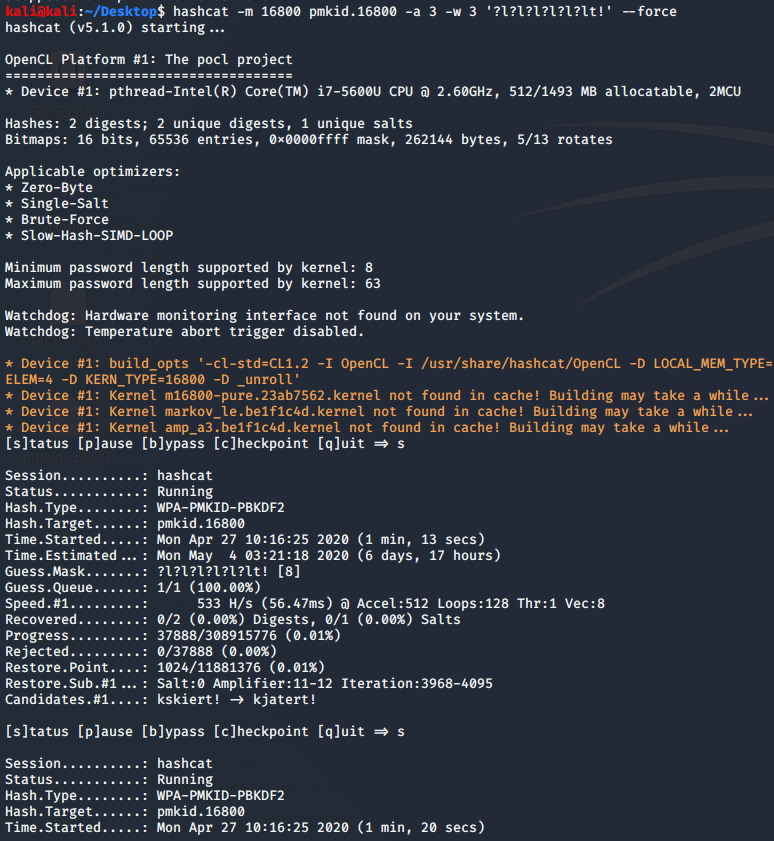
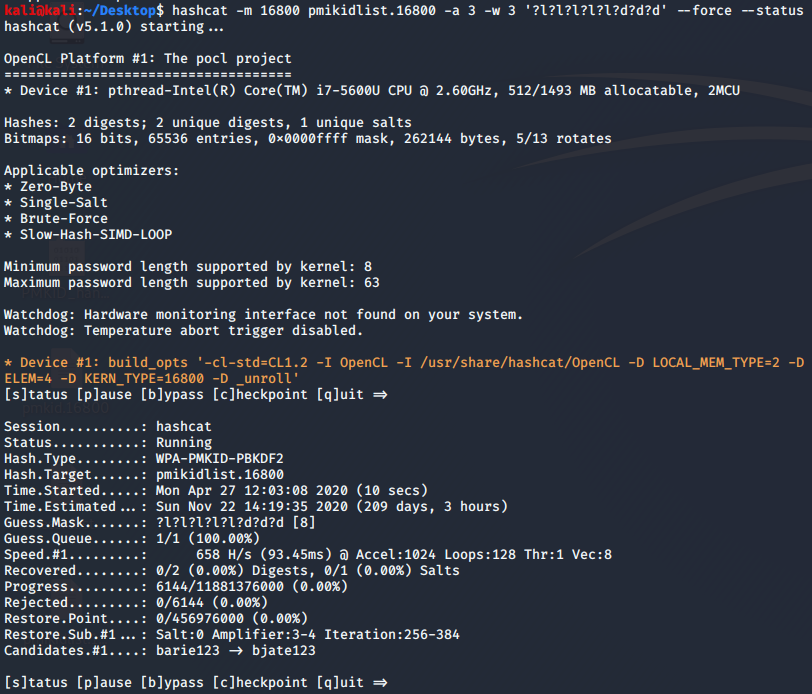
Added screenshots and comments for step 3

Changed region(s): [[0.0, 0.0, 1.0, 0.9986], [0.9302, 0.0, 0.9922, 0.0303]]

diff --git a/README.md b/README.md
@@ -57,15 +57,19 @@ Utilisant votre script précédent, le modifier pour réaliser les taches suivan
 
 A manière de comparaison, réaliser l'attaque sur le [fichier de capture](files/PMKID_handshake.pcap) utilisant la méthode décrite [ici](https://hashcat.net/forum/thread-7717.html).
 
-**Remarque:** 
+**Remarque:** L'attaque a été faite sur une VM Kali.
 
 On commence par convertir le fichier pcap vers un format compatible avec hashcat :
 
-![step 3](images/hcxpcaptool-conversion.png)
+![pcap formating](images/pmkid_list.png)
 
-On lance ensuite hashcat sur le fichier `pmkid.16800`:
+On lance ensuite hashcat sur le fichier `pmikidlist.16800`:
 
-![](images/hashcat.png)
+![hashcat attack](images/hashcat.png)
+
+Après 12 minutes hashcat trouve le PMKID (`admin123`) de la capture wireshark :
+
+![PMKID found](images/hashcat-results.png)
 
 
 ## Livrables
